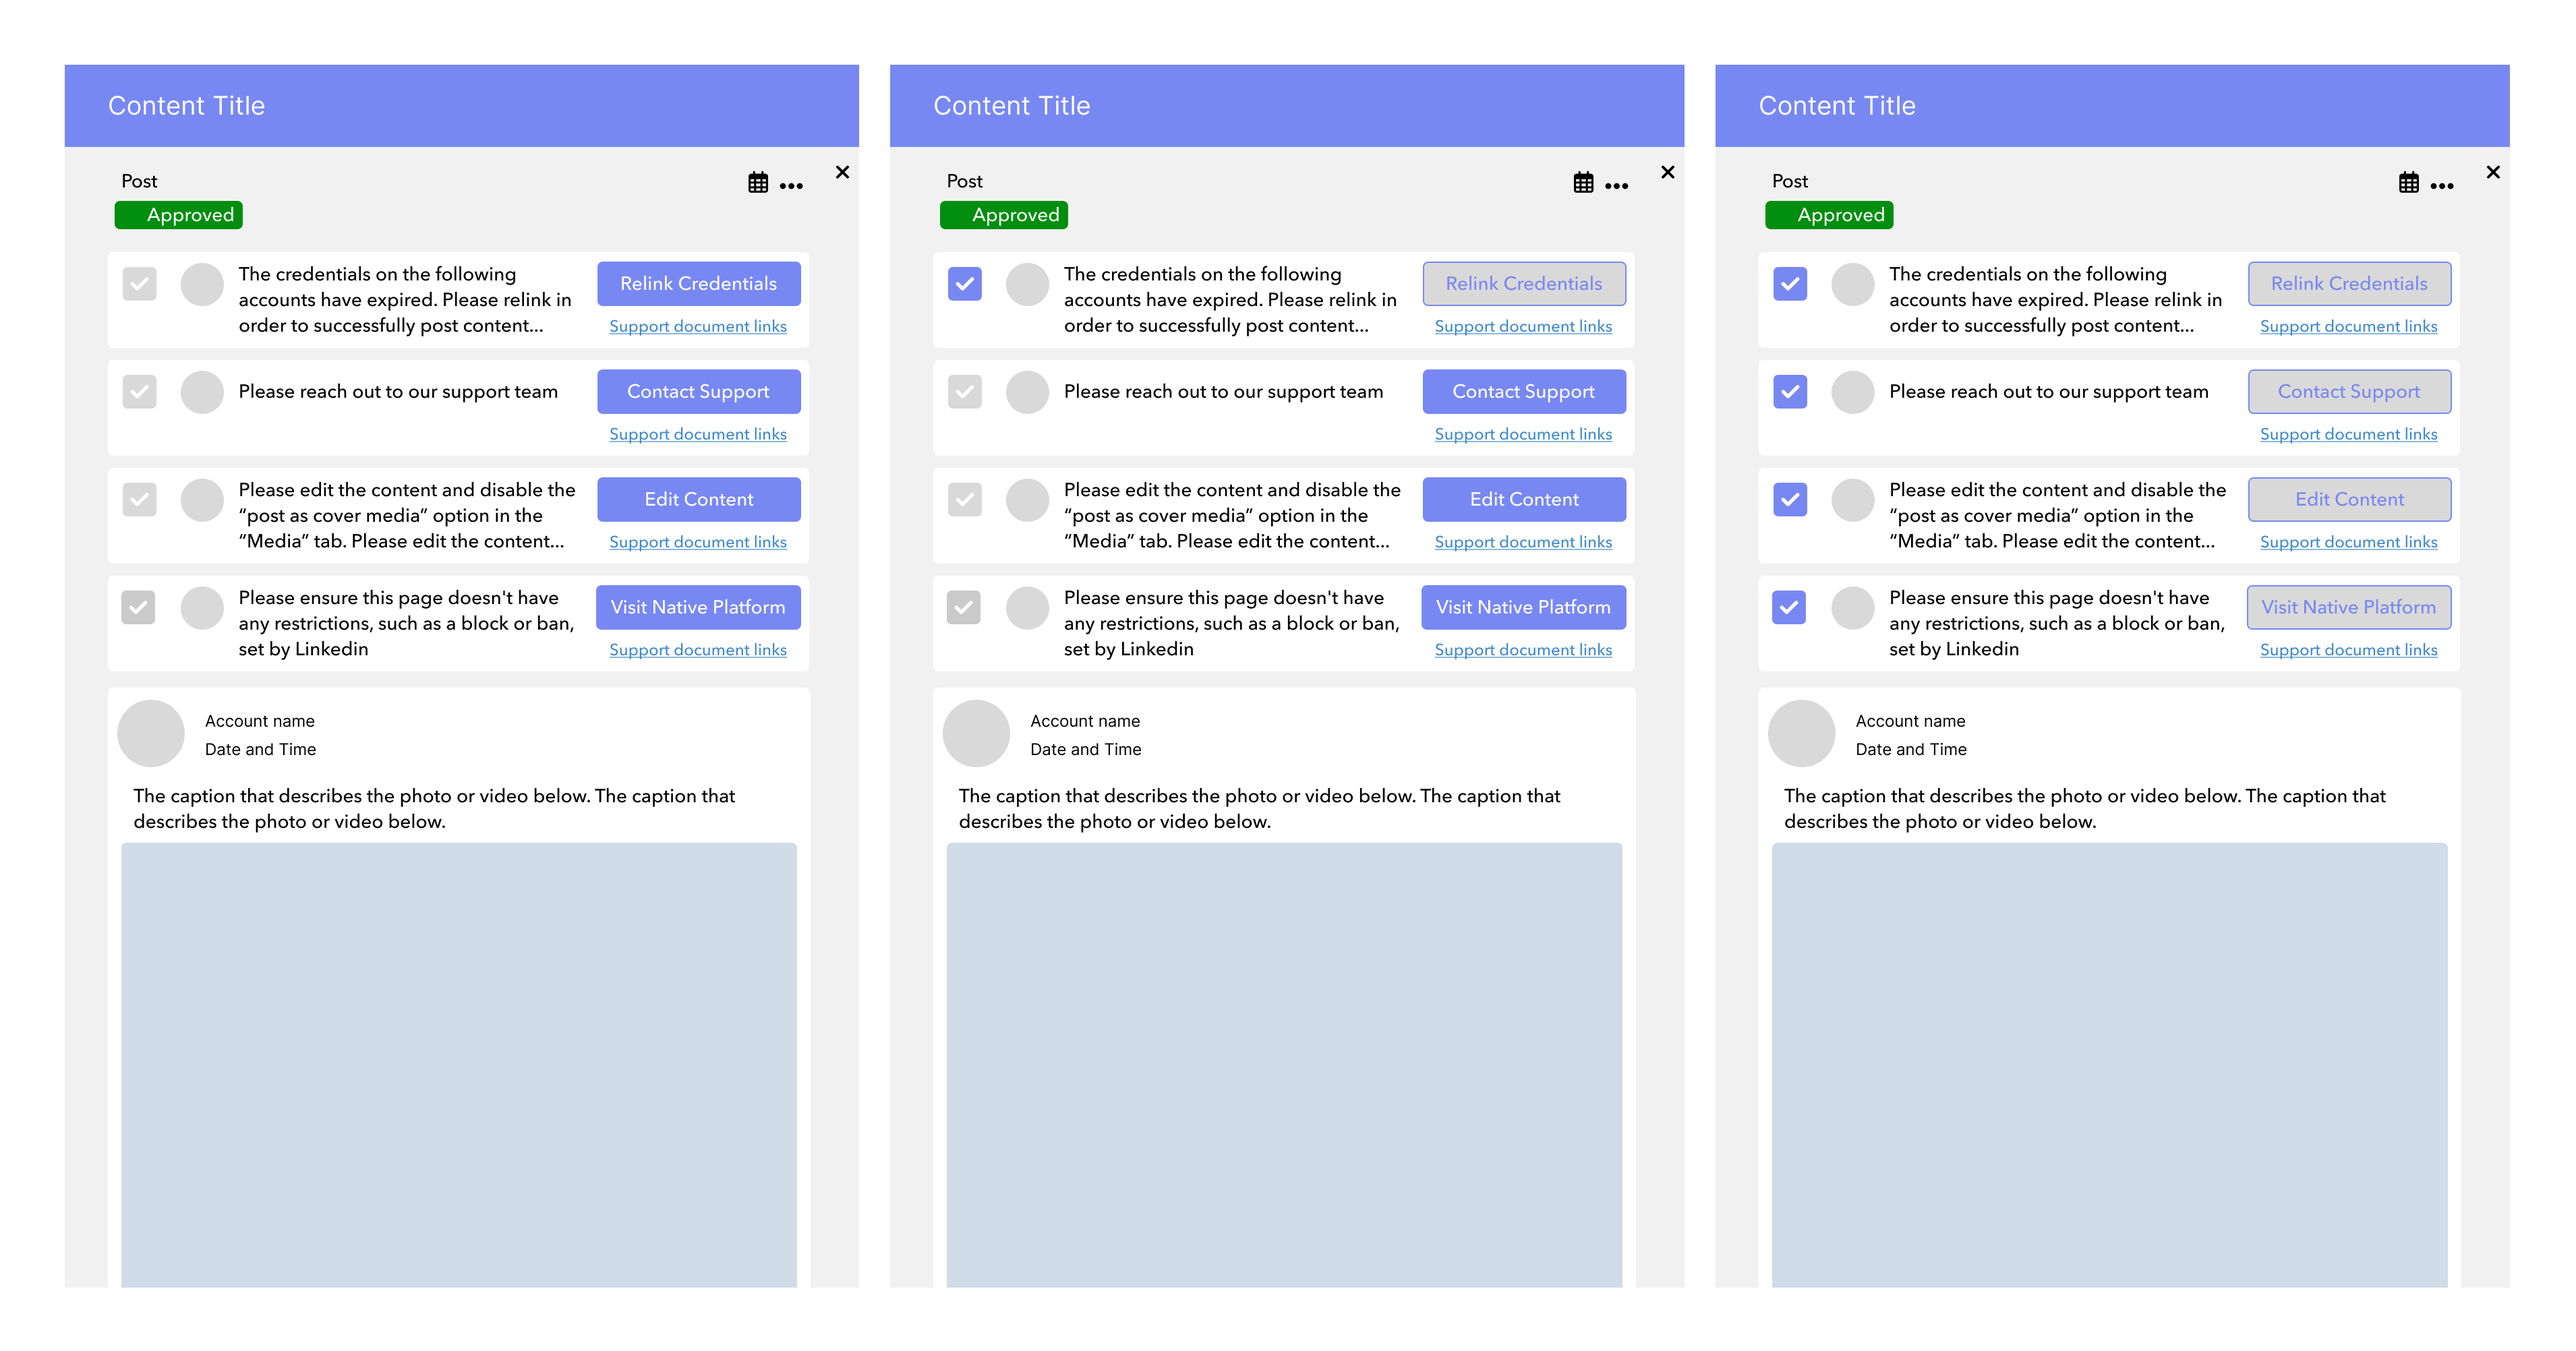
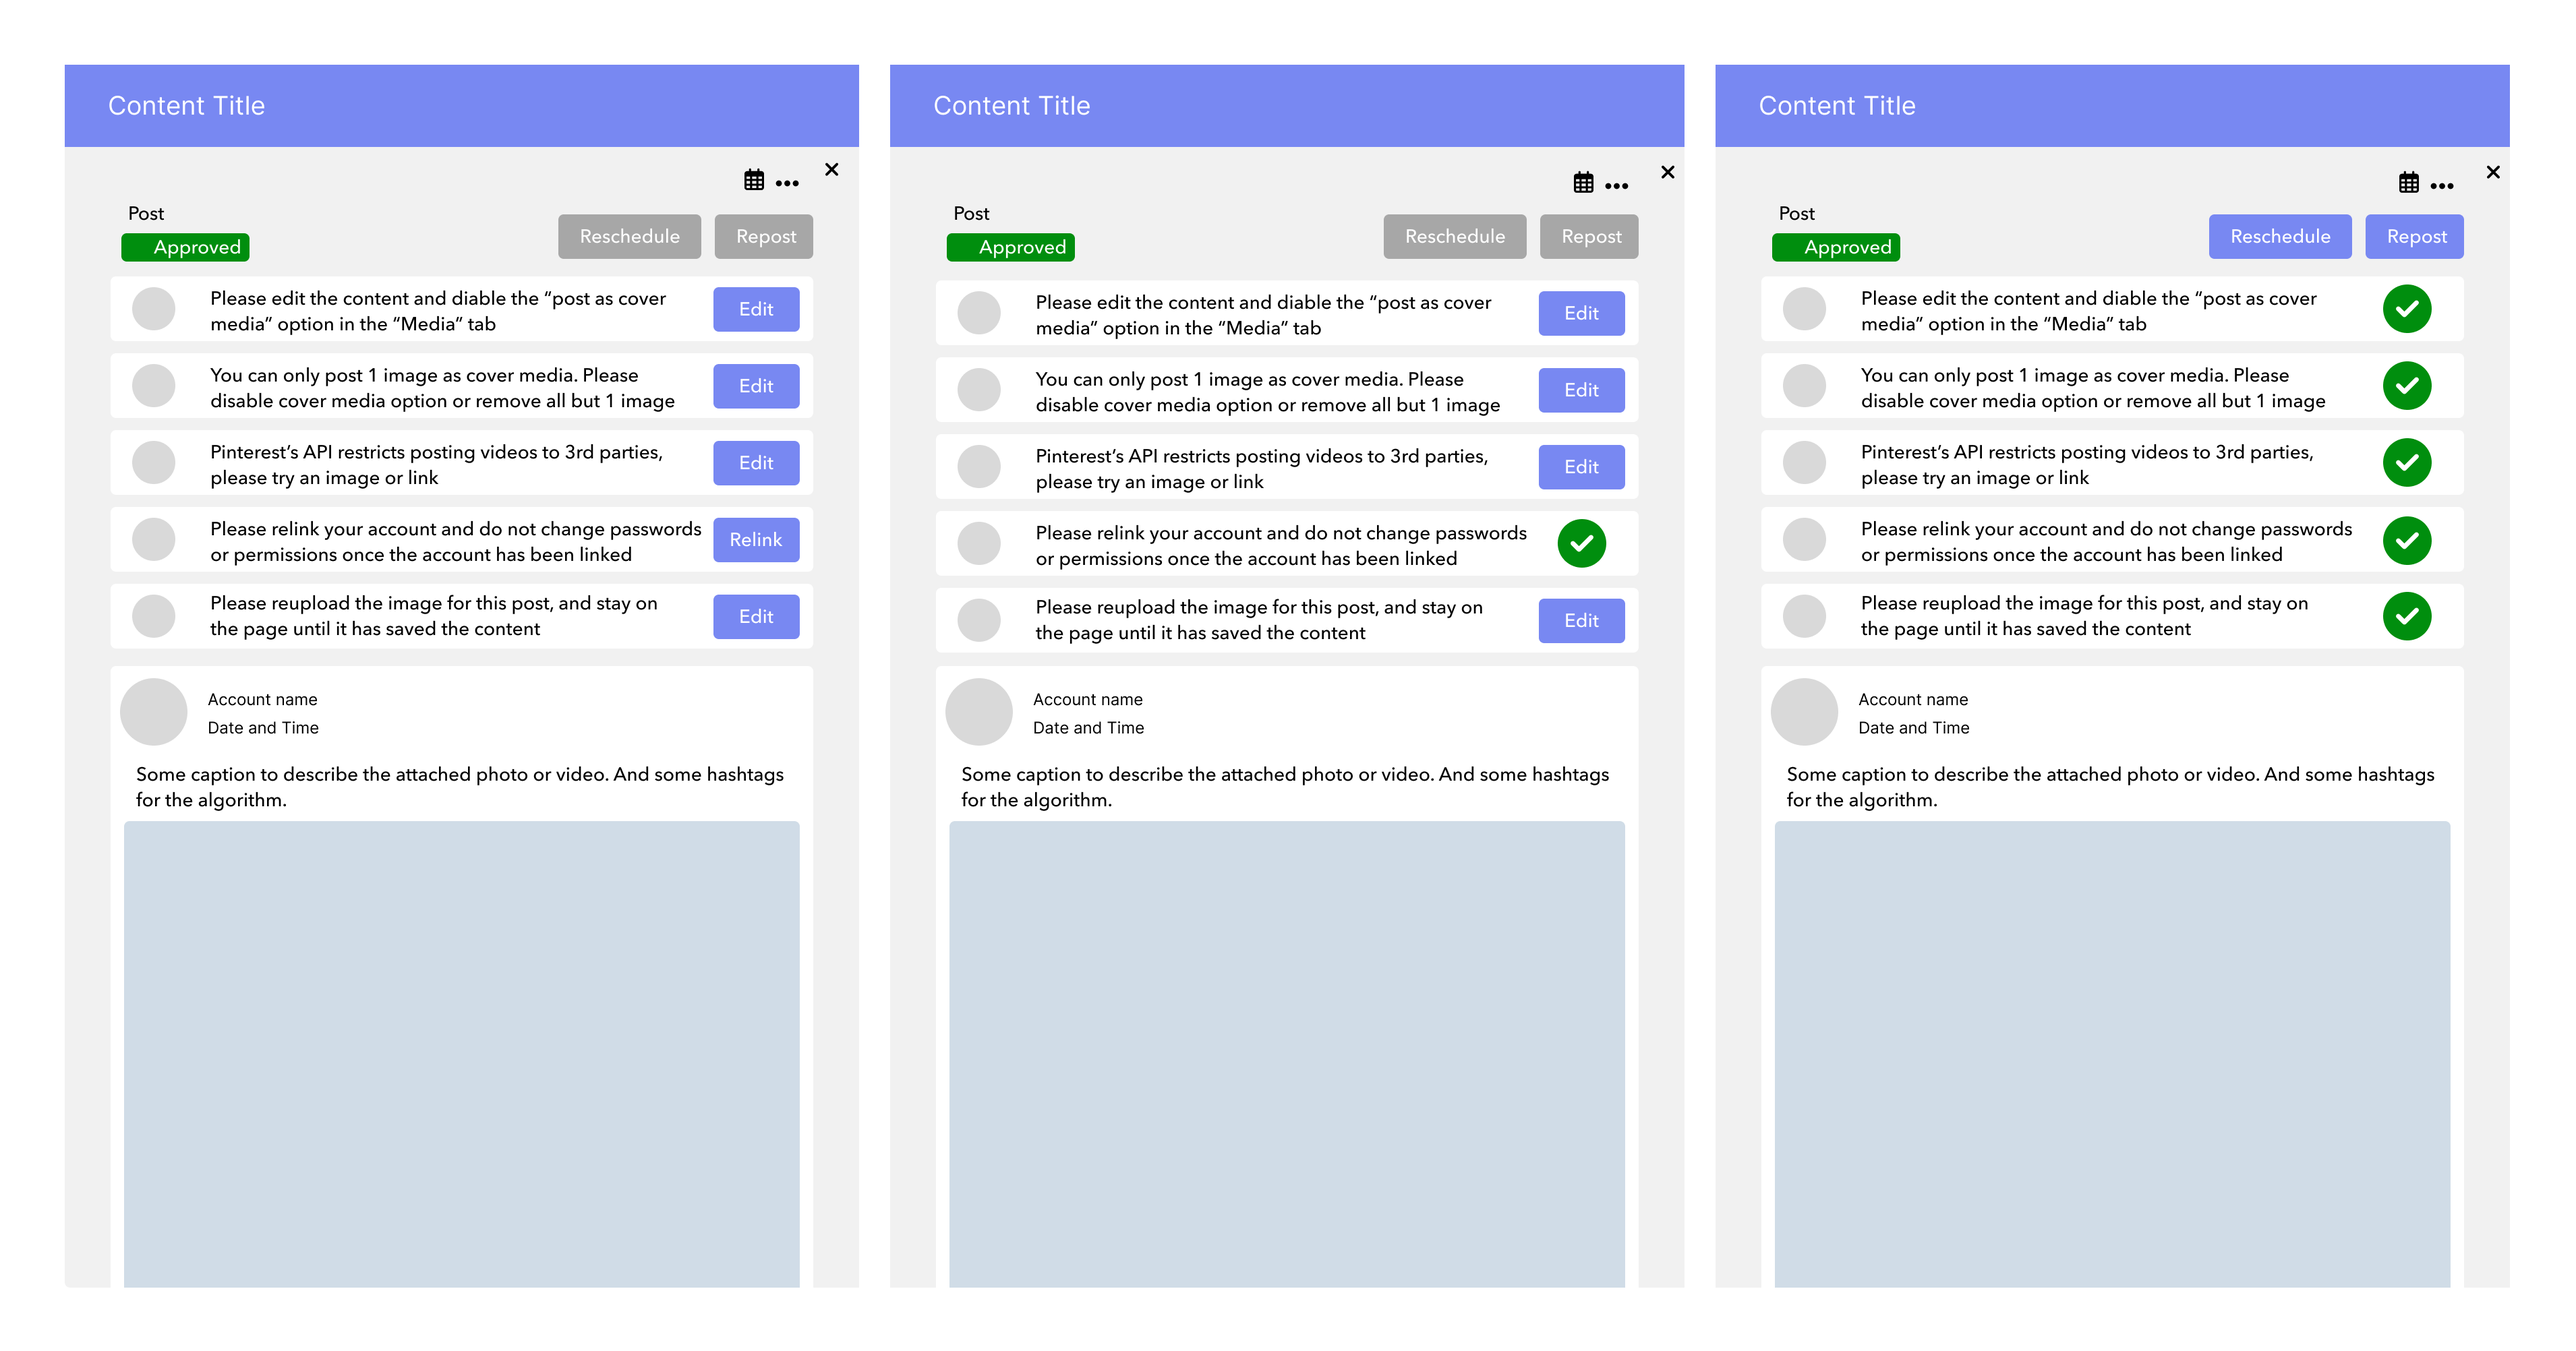
Work in progress, update resume file

Changed region(s): [[0.0312, 0.1238, 0.6542, 0.6497], [0.6853, 0.1238, 0.9657, 0.495], [0.6853, 0.495, 0.9657, 0.6497]]

diff --git a/posterrors.html b/posterrors.html
@@ -52,7 +52,7 @@
             <li class="nav-item">
               <a
                 class="nav-link"
-                href="https://drive.google.com/file/d/1ASDQsHIZTmhv6gdOq481SY9tVdXxBeRm/view?usp=sharing"
+                href="https://drive.google.com/file/d/1f3rmD5ZkLbll5N3aUrDkUr-gupDYjgAT/view?usp=sharing"
                 target="_blank"
                 rel="noopener noreferrer"
                 >Resume</a
@@ -106,7 +106,7 @@
         </li>
         <li>
           I experienced the importance of flexibility and optimized task
-          management to better tackle scope creep.
+          management to better tackle scope creep/change.
         </li>
         <li>
           I have a higher level of admiration for team members who work directly
@@ -115,6 +115,88 @@
       </ul>
 
       <h3 style="text-align: left">Research</h3>
+      <h3 style="text-align: left">Ideation</h3>
+      <h4 style="text-align: left">User Experience and Feasability</h4>
+      <p>
+        During conversations of the ideal user experience, I ran into new
+        information that disclosed a feasability barrier. I was working on the
+        assumption that our users would be able to get immediate feedback on the
+        action they had taken whether it was editing content to fit requirements
+        or renewing a credential. However, given constraints, we were not able
+        to provide that ability at the time.
+      </p>
+      <h3 style="text-align: left">Visual Design</h3>
+      <h3 style="text-align: left">Iterations</h3>
+
+      <div>
+        <p>
+          A few key iterations for this project include that of a change caused
+          by feasability restrictions that surfaced after the beginning of the
+          research and design process. The initial experience for the post
+          errors project relied on the premise that once the user has addressed
+          the error through the button entry point in the modal, that action
+          taken would be reflected automatically. The button would change into a
+          green checkmark icon which reflects the resolved error. However,
+          during conversations with the engineering team, it was disclosed that
+          to have said functionality, the lift would be larger than initially
+          understood. Weighing out the factors of time, resource, and value, we
+          decided upon an initial release of a manual process with plans of
+          creating necessary endpoints for automation for a later update.
+        </p>
+        <img
+          src="/images/SPE initial flow.png"
+          alt="Image showing two screen designs"
+          class="img-fluid rounded"
+          id="large-image"
+        />
+      </div>
+      <div>
+        <p>
+          The iterated design is reflected below. The experience became manual
+          in that once an error was addressed, the user would have to check the
+          error message off. Upon checking off the item, the button, which acts
+          as an entry point, would become disabled.
+        </p>
+        <img
+          src="/images/SPE flow post feasability information.png"
+          alt="Image showing two screen designs"
+          class="img-fluid rounded"
+          id="large-image"
+        />
+      </div>
+      <div>
+        <p>
+          Having addressed feasability and fuctionality with regards to user
+          experience. We did have a few iterations of the placement of specific
+          elements. One of the decisions was in relation to the location of the
+          checkbox icon. Through internal A/B testing and external A/B testing,
+          we came to the conclusion of the third version with the checkbox to
+          the right and separate from the card that holds the message, the
+          button, and the support link.
+        </p>
+        <img
+          src="/images/SPE Checkmark Location.png"
+          alt="Image showing two screen designs"
+          class="img-fluid rounded"
+          id="large-image"
+        />
+      </div>
+      <div>
+        <p>
+          Few final details were applied to the visual and the behavior to
+          produce final look and experience. <ol><li>The checkbox, when unchecked, is
+          an empty square.</li><li>The button is disabled once the checkbox is
+          checked.</li><li>The error message is strikedthrough once the checkbox is
+          checked.</li></ol> 
+        </p>
+        <img
+          src="/images/SPE Final Modal with behavior.png"
+          alt="Image showing two screen designs"
+          class="img-fluid rounded"
+          id="large-image"
+        />
+      </div>
+      <h3 style="text-align: left">Result and Reflection</h3>
     </div>
 
     <footer>

diff --git a/about.html b/about.html
@@ -50,7 +50,7 @@
             <li class="nav-item">
               <a
                 class="nav-link"
-                href="https://drive.google.com/file/d/1ASDQsHIZTmhv6gdOq481SY9tVdXxBeRm/view?usp=sharing"
+                href="https://drive.google.com/file/d/1f3rmD5ZkLbll5N3aUrDkUr-gupDYjgAT/view?usp=sharing"
                 target="_blank"
                 rel="noopener noreferrer"
                 >Resume</a

diff --git a/captionai.html b/captionai.html
@@ -51,7 +51,7 @@
             <li class="nav-item">
               <a
                 class="nav-link"
-                href="https://drive.google.com/file/d/1ASDQsHIZTmhv6gdOq481SY9tVdXxBeRm/view?usp=sharing"
+                href="https://drive.google.com/file/d/1f3rmD5ZkLbll5N3aUrDkUr-gupDYjgAT/view?usp=sharing"
                 target="_blank"
                 rel="noopener noreferrer"
                 >Resume</a

diff --git a/contact.html b/contact.html
@@ -85,7 +85,7 @@
             <li class="nav-item">
               <a
                 class="nav-link"
-                href="https://drive.google.com/file/d/1ASDQsHIZTmhv6gdOq481SY9tVdXxBeRm/view?usp=sharing"
+                href="https://drive.google.com/file/d/1f3rmD5ZkLbll5N3aUrDkUr-gupDYjgAT/view?usp=sharing"
                 target="_blank"
                 rel="noopener noreferrer"
                 >Resume</a

diff --git a/index.html b/index.html
@@ -54,7 +54,7 @@
             <li class="nav-item">
               <a
                 class="nav-link"
-                href="https://drive.google.com/file/d/1ASDQsHIZTmhv6gdOq481SY9tVdXxBeRm/view?usp=sharing"
+                href="https://drive.google.com/file/d/1f3rmD5ZkLbll5N3aUrDkUr-gupDYjgAT/view?usp=sharing"
                 target="_blank"
                 rel="noopener noreferrer"
                 >Resume</a

diff --git a/personal.html b/personal.html
@@ -52,7 +52,7 @@
             <li class="nav-item">
               <a
                 class="nav-link"
-                href="https://drive.google.com/file/d/1ASDQsHIZTmhv6gdOq481SY9tVdXxBeRm/view?usp=sharing"
+                href="https://drive.google.com/file/d/1f3rmD5ZkLbll5N3aUrDkUr-gupDYjgAT/view?usp=sharing"
                 target="_blank"
                 rel="noopener noreferrer"
                 >Resume</a
